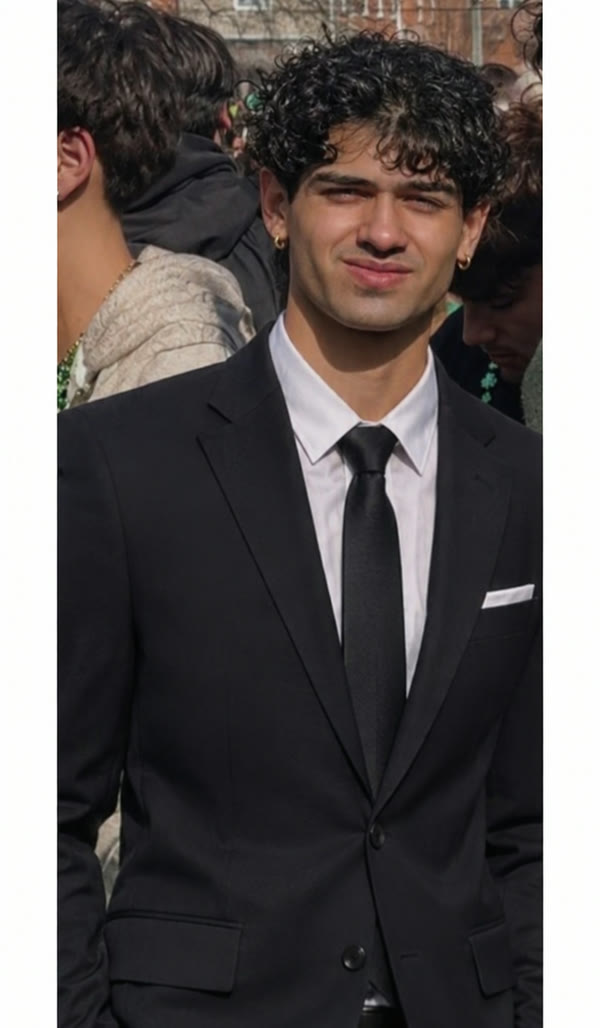
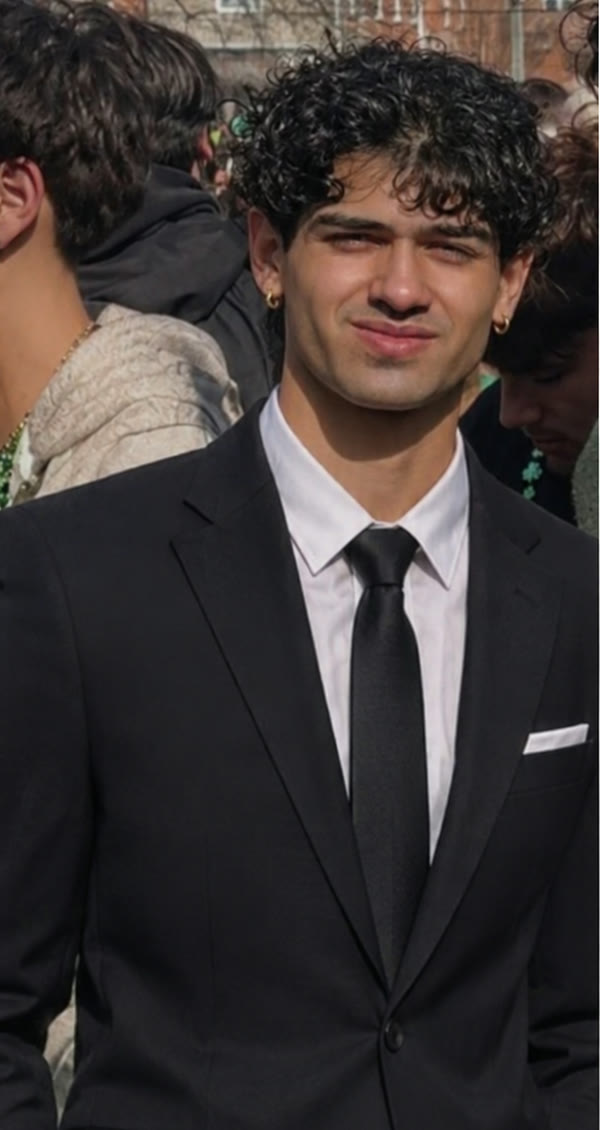
Crop photo edges, photo below headline

diff --git a/index.html b/index.html
@@ -47,7 +47,7 @@ body {
 .tag small { font-family: var(--body); font-weight: 800; font-size: 11px; letter-spacing: .12em; margin-left: 6px; text-transform: uppercase; }
 .mail-top { font-size: 12px; color: var(--ink-soft); }
 .headline { font-family: var(--display); font-size: clamp(76px, 22vw, 150px); line-height: .86; margin: 6px 0 0; letter-spacing: .005em; color: #e9e9ec; text-align: center; }
-.hero { display: grid; grid-template-columns: 1fr minmax(0, 1.25fr) 1fr; align-items: end; gap: 8px; margin-top: -46px; position: relative; }
+.hero { display: grid; grid-template-columns: 1fr minmax(0, 1.25fr) 1fr; align-items: end; gap: 8px; margin-top: 16px; position: relative; }
 .photo { position: relative; z-index: 1; }
 .photo img { display: block; width: 100%; height: auto; border-radius: 6px; box-shadow: 0 10px 30px rgba(0,0,0,.45); }
 .niches { align-self: center; font-size: 13px; min-width: 0; }
@@ -105,7 +105,7 @@ h2 { font-weight: 800; font-size: clamp(22px, 5.4vw, 30px); text-align: center; 
 .toast { margin-top: 12px; font-size: 12px; color: var(--gold); min-height: 1.2em; }
 
 @media (max-width: 520px) {
-  .hero { grid-template-columns: 1fr 1fr; margin-top: -24px; }
+  .hero { grid-template-columns: 1fr 1fr; margin-top: 14px; }
   .photo { grid-column: 1 / -1; order: -1; max-width: 300px; justify-self: center; width: 80%; }
   .about { grid-template-columns: 1fr; }
   .about-photo { max-width: 220px; justify-self: center; width: 100%; }
